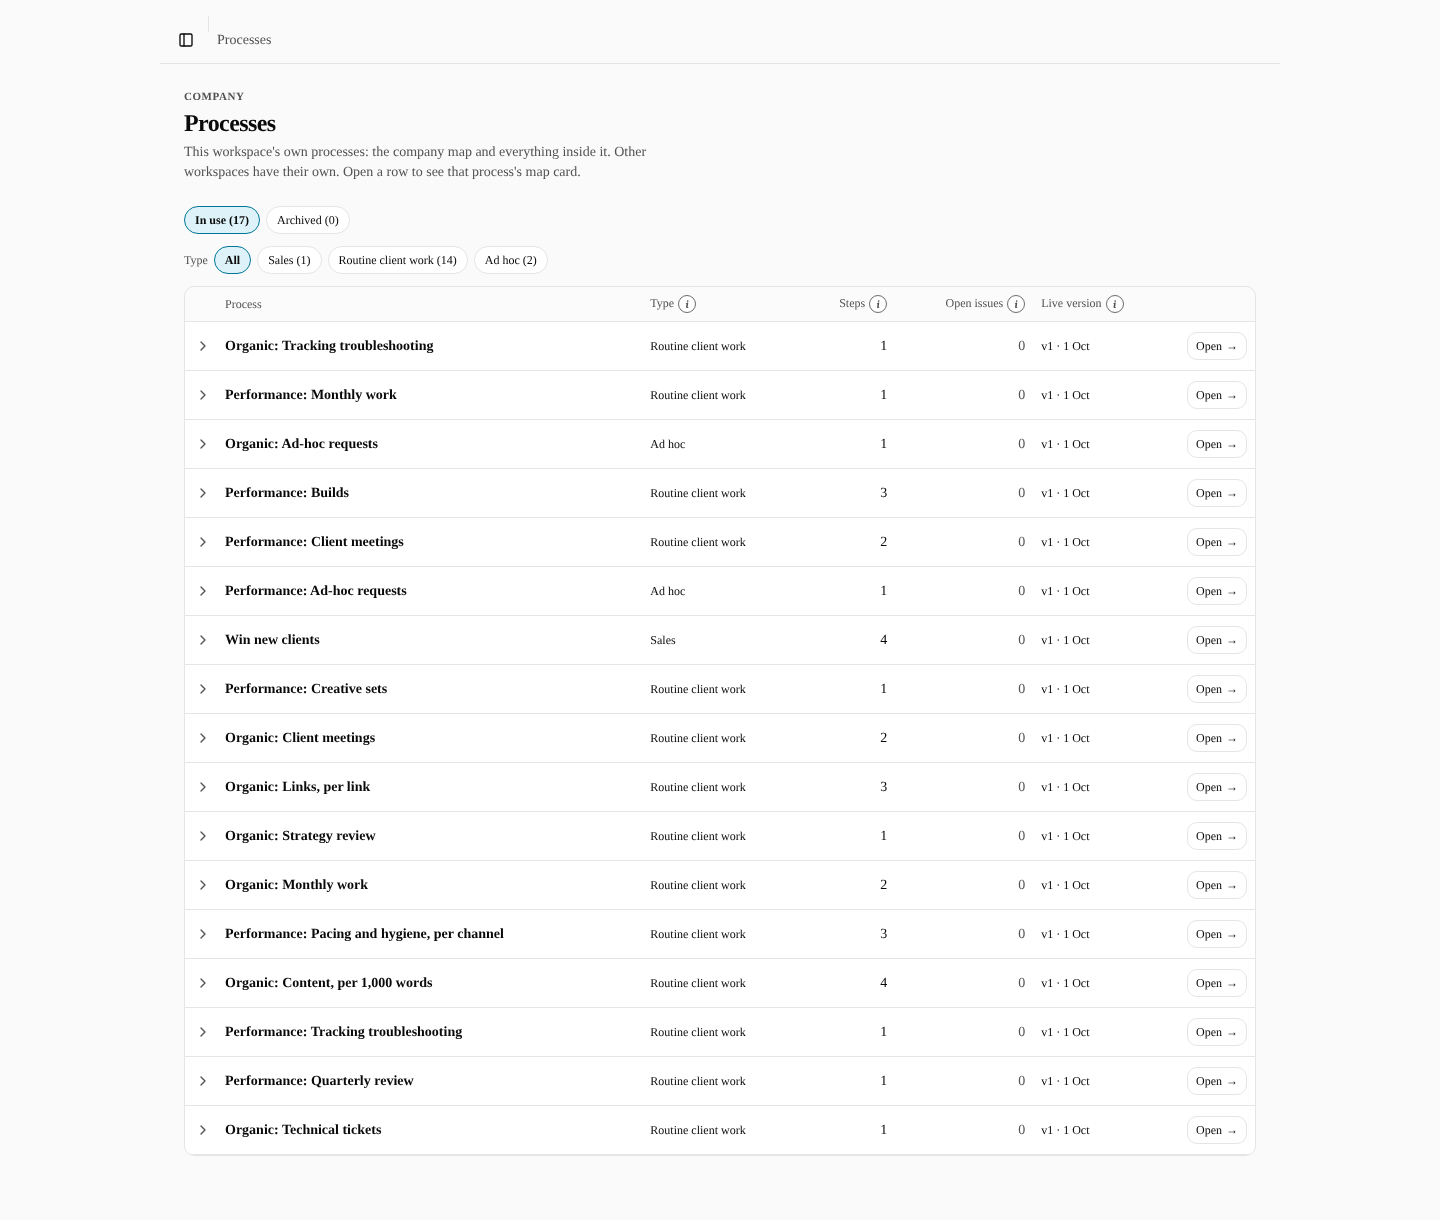
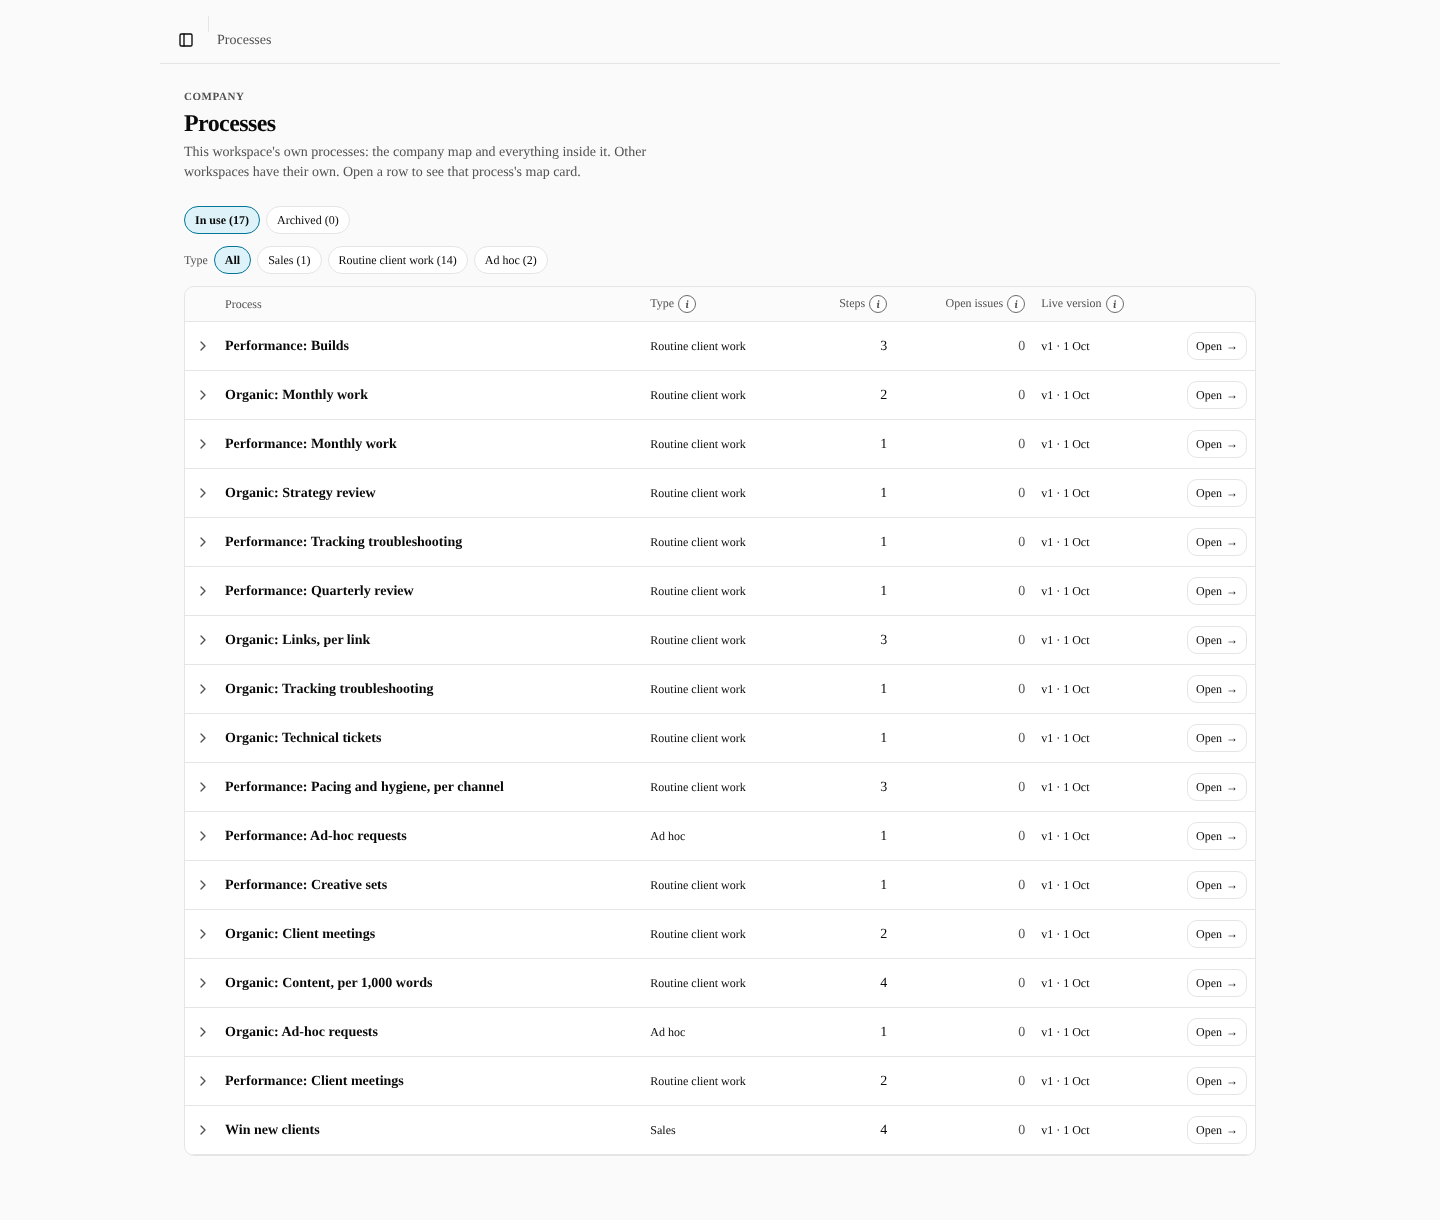
Q3: tier setup carries departments (headline share); fix tests for the new column; screenshots
Claude-Session: https://claude.ai/code/session_0162F8LBTTDy4Bydy6b4pcBv

diff --git a/apps/web/test/base-values.test.ts b/apps/web/test/base-values.test.ts
@@ -231,7 +231,10 @@ describe("the tier setup", () => {
       tiers: [{ id: "b", key: "T2", sort: 2 }, { id: "a", key: "T1", sort: 1 }],
       services: [{ id: "s1", tier_id: "a", words: 4000, links: null, tech_hours: 2 }, { id: "s2", tier_id: null, words: 1 }],
     } as never;
-    expect(tierSetupFrom(setup)).toEqual({ keys: ["T1", "T2"], services: { s1: { tier: "T1", deliverables: { words: 4000, techHours: 2 } } } });
+    expect(tierSetupFrom(setup)).toEqual({ keys: ["T1", "T2"], services: { s1: { tier: "T1", deliverables: { words: 4000, techHours: 2 } } }, departments: { names: {}, ofRole: {} } });
+    // The departments and which role sits in which (the process page's headline share).
+    const withDepartments = { ...(setup as object), departments: [{ id: "d1", name: "Organic" }], roles: [{ id: "r1", department_id: "d1" }, { id: "r2", department_id: null }] } as never;
+    expect(tierSetupFrom(withDepartments).departments).toEqual({ names: { d1: "Organic" }, ofRole: { r1: "d1", r2: null } });
     expect(tierSetupFrom({ tiers: [], services: [] } as never).keys).toEqual(["T1", "T2", "T3"]);
   });
 });

diff --git a/packages/mcp/test/db-company-version.test.ts b/packages/mcp/test/db-company-version.test.ts
@@ -25,7 +25,7 @@ async function companyMap(ws: string, label: string) {
   await admin.query("delete from steps where process_id in (select id from processes where workspace_id = $1 and is_company)", [ws]);
   await admin.query("delete from process_revisions where process_id in (select id from processes where workspace_id = $1 and is_company)", [ws]);
   await admin.query("delete from processes where workspace_id = $1 and is_company", [ws]);
-  const company = (await one("insert into processes (workspace_id, name, is_company) values ($1, 'Company map', true) returning id", [ws])).id as string;
+  const company = (await one("insert into processes (workspace_id, name, is_company, category) values ($1, 'Company map', true, 'internal') returning id", [ws])).id as string;
   const out: string[] = [];
   for (const [number, status] of [[1, "superseded"], [2, "published"], [3, "draft"]] as const) {
     const rev = (await one("insert into process_revisions (workspace_id, process_id, number, status) values ($1, $2, $3, $4) returning id", [ws, company, number, status])).id as string;

diff --git a/apps/web/test/q3-shots.test.ts b/apps/web/test/q3-shots.test.ts
@@ -81,9 +81,9 @@ describe("Q3 screenshots", () => {
       const page = await browser.newPage({ viewport: { width: 1440, height: 1000 } });
       page.on("pageerror", (e) => console.log("pageerror", e.message));
       await page.setContent(`<style>${css}</style><div id="root"></div>`);
-      await page.evaluate(([w, d]) => ((window.workerScripts = { "simulate.worker.ts": w as string }), (window.shotData = d as never)), [worker, data] as const);
+      await page.evaluate(([w, d]) => ((window.workerScripts = { "simulate.worker.ts": w as string }), (window.q3ShotData = d as never)), [worker, data] as const);
       await page.addScriptTag({ content: script });
-      await page.evaluate((w) => window.mountShots(w), what);
+      await page.evaluate((w) => window.mountQ3Shots(w), what);
       await page.waitForSelector(wait, { timeout: 240_000 });
       if (what === "process") await page.waitForSelector("[data-supporting-headline]:not(:has(span))", { timeout: 240_000 });
       if (what === "process") await page.locator("[data-role-hours] summary").first().click();

diff --git a/apps/web/test/q3-shots-harness/entry.tsx b/apps/web/test/q3-shots-harness/entry.tsx
@@ -12,8 +12,8 @@ import type { TierSetup } from "@/lib/tier-setup";
 declare global {
   interface Window {
     workerScripts: Record<string, string>;
-    shotData: { rows: ProcessRowData[]; bundle: ProcessBundle; tierSetup: TierSetup };
-    mountShots: (what: "processes" | "process") => void;
+    q3ShotData: { rows: ProcessRowData[]; bundle: ProcessBundle; tierSetup: TierSetup };
+    mountQ3Shots: (what: "processes" | "process") => void;
   }
 }
 
@@ -26,8 +26,8 @@ window.Worker = class extends NativeWorker {
   }
 } as typeof Worker;
 
-window.mountShots = (what) => {
-  const { rows, bundle, tierSetup } = window.shotData;
+window.mountQ3Shots = (what) => {
+  const { rows, bundle, tierSetup } = window.q3ShotData;
   const root = createRoot(document.getElementById("root")!);
   if (what === "processes") {
     root.render(

diff --git a/apps/web/src/lib/tier-setup.ts b/apps/web/src/lib/tier-setup.ts
@@ -37,8 +37,8 @@ export function tierSetupFrom(setup: CapacitySetup | null): TierSetup {
     services[s.id] = { tier, deliverables };
   }
   const departments: DepartmentMap = {
-    names: Object.fromEntries(setup.departments.map((d) => [d.id, d.name])),
-    ofRole: Object.fromEntries(setup.roles.map((r) => [r.id, r.department_id ?? null])),
+    names: Object.fromEntries((setup.departments ?? []).map((d) => [d.id, d.name])),
+    ofRole: Object.fromEntries((setup.roles ?? []).map((r) => [r.id, r.department_id ?? null])),
   };
   return { keys: tiers.length ? tiers.map((t) => t.key) : [...DEFAULT_TIER_KEYS], services, departments };
 }
